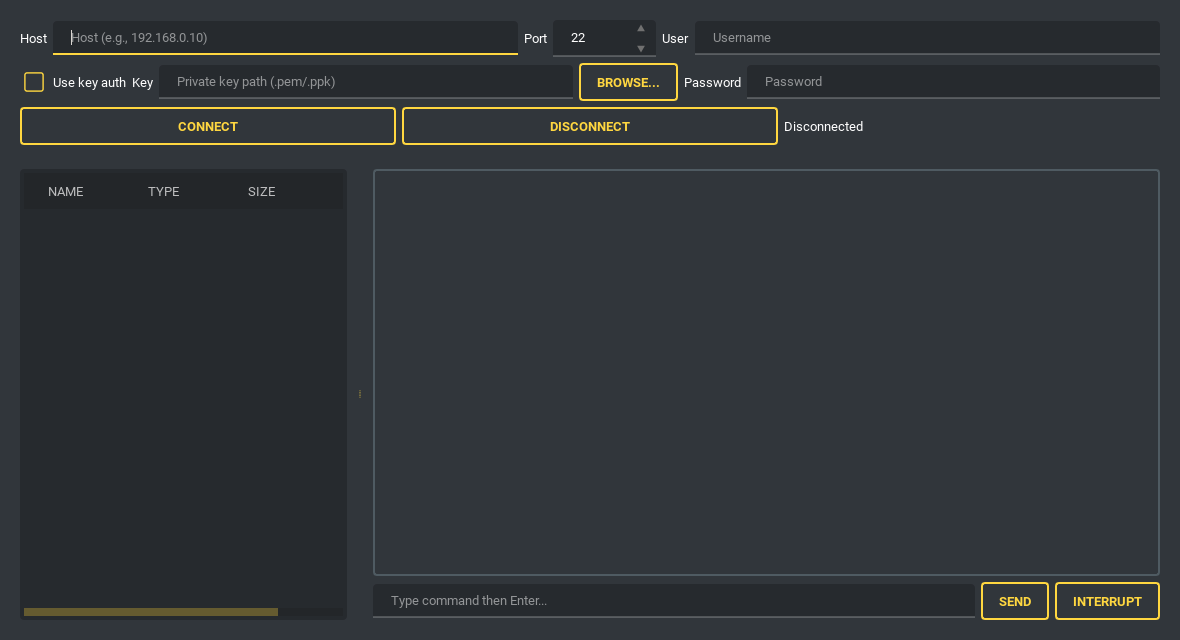
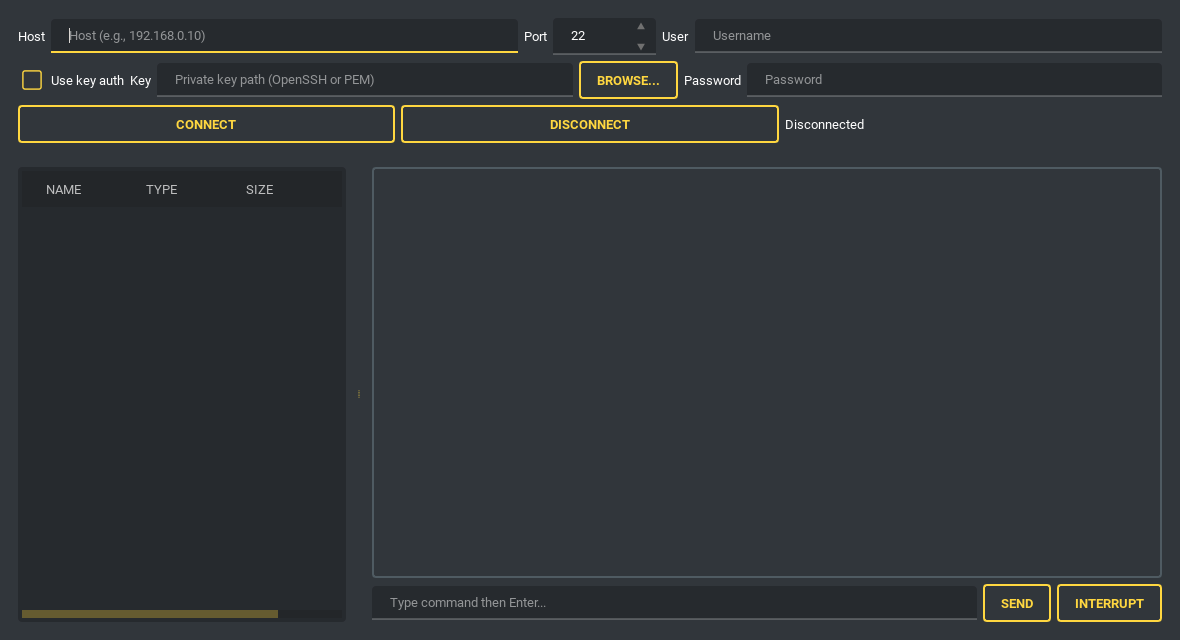
Tell the user to export a PuTTY key as OpenSSH

diff --git a/pybreeze/pybreeze_ui/connect_gui/ssh/ssh_key_loader.py b/pybreeze/pybreeze_ui/connect_gui/ssh/ssh_key_loader.py
@@ -27,6 +27,10 @@ _KEY_CLASSES: tuple[type[paramiko.PKey], ...] = (
 UNSUPPORTED_KEY = "ssh_command_widget_error_message_unsupported_private_key"
 PASSPHRASE_NEEDED = "ssh_key_error_passphrase_needed"
 PASSPHRASE_WRONG = "ssh_key_error_passphrase_wrong"
+PUTTY_KEY = "ssh_key_error_putty_key"
+
+# A PuTTY key file (.ppk), which neither paramiko nor cryptography reads
+_PUTTY_HEADER = b"PuTTY-User-Key-File-"
 
 # PKCS#8, which paramiko does not read (openssl genpkey, ssh-keygen -m PKCS8)
 _PKCS8_PLAIN = b"-----BEGIN PRIVATE KEY-----"
@@ -50,13 +54,13 @@ def load_private_key(key_path: str, password: str, *, context: str = "SSH") -> p
     return _load_pkcs8(key_path, passphrase, context)
 
 
-def _pkcs8_data(key_path: str) -> bytes | None:
-    """The contents of *key_path* if it is a PKCS#8 key file, else ``None``."""
+def _key_file_data(key_path: str, *headers: bytes) -> bytes | None:
+    """The contents of *key_path* if it starts with one of *headers*, else ``None``."""
     try:
         data = Path(key_path).read_bytes().lstrip()
     except OSError:
         return None
-    return data if data.startswith((_PKCS8_PLAIN, _PKCS8_ENCRYPTED)) else None
+    return data if data.startswith(headers) else None
 
 
 def _load_pkcs8(key_path: str, passphrase: str | None, context: str) -> paramiko.PKey | None:
@@ -66,7 +70,7 @@ def _load_pkcs8(key_path: str, passphrase: str | None, context: str) -> paramiko
     only, for paramiko to load. A passphrase is used only for an encrypted
     file: paramiko ignores one given for a plain key, and so does this.
     """
-    data = _pkcs8_data(key_path)
+    data = _key_file_data(key_path, _PKCS8_PLAIN, _PKCS8_ENCRYPTED)
     if data is None:
         return None
     password = passphrase.encode("utf-8") if passphrase and data.startswith(_PKCS8_ENCRYPTED) else None
@@ -96,10 +100,12 @@ def unloadable_key_reason(key_path: str, password: str) -> str:
     wrong only when it does not decrypt the file: an encrypted key of a type
     paramiko cannot load (DSA, a FIDO key) asks for one too, and with the
     right one it is still unsupported. An encrypted PKCS#8 file says so in
-    its first line, which paramiko does not read.
+    its first line, which paramiko does not read. A PuTTY key is to be
+    exported as an OpenSSH one.
     """
-    pkcs8 = _pkcs8_data(key_path)
-    if pkcs8 is not None and pkcs8.startswith(_PKCS8_ENCRYPTED):
+    if _key_file_data(key_path, _PUTTY_HEADER) is not None:
+        return PUTTY_KEY
+    if _key_file_data(key_path, _PKCS8_ENCRYPTED) is not None:
         if not password:
             return PASSPHRASE_NEEDED
         return UNSUPPORTED_KEY if _decrypts(key_path, password) else PASSPHRASE_WRONG

diff --git a/test/test_utils/test_ssh_security.py b/test/test_utils/test_ssh_security.py
@@ -125,7 +125,8 @@ class TestWhyAKeyDidNotLoad:
         )
         from pybreeze.pybreeze_ui.connect_gui.ssh import ssh_key_loader
 
-        for key in (ssh_key_loader.UNSUPPORTED_KEY, ssh_key_loader.PASSPHRASE_NEEDED, ssh_key_loader.PASSPHRASE_WRONG):
+        for key in (ssh_key_loader.UNSUPPORTED_KEY, ssh_key_loader.PASSPHRASE_NEEDED, ssh_key_loader.PASSPHRASE_WRONG,
+                    ssh_key_loader.PUTTY_KEY):
             assert english_word_dict.get(key) and traditional_chinese_word_dict.get(key)
 
 
@@ -187,6 +188,32 @@ class TestPkcs8Keys:
         typed = passphrase.decode() if passphrase else ""
         assert load_private_key(path, typed) is None
         assert unloadable_key_reason(path, typed) == UNSUPPORTED_KEY
+
+
+class TestPuttyKeys:
+    """paramiko reads no PuTTY key; the login form offered .ppk and then called it invalid."""
+
+    _PPK = ("PuTTY-User-Key-File-3: ssh-ed25519\nEncryption: none\nComment: laptop\n"
+            "Public-Lines: 1\nAAAAC3NzaC1lZDI1NTE5AAAAIA==\nPrivate-Lines: 1\nAAAAIA==\n"
+            "Private-MAC: 00\n")
+
+    @pytest.mark.parametrize("typed", ["", "a passphrase"])
+    def test_the_user_is_told_to_export_it_as_openssh(self, tmp_path, typed):
+        from pybreeze.pybreeze_ui.connect_gui.ssh.ssh_key_loader import PUTTY_KEY, unloadable_key_reason
+
+        path = tmp_path / "laptop.ppk"
+        path.write_text(self._PPK, encoding="ascii")
+        assert load_private_key(str(path), typed) is None
+        assert unloadable_key_reason(str(path), typed) == PUTTY_KEY
+
+    def test_the_login_form_does_not_offer_it(self):
+        from pybreeze.extend_multi_language.extend_english import pybreeze_english_word_dict
+        from pybreeze.extend_multi_language.extend_traditional_chinese import (
+            pybreeze_traditional_chinese_word_dict,
+        )
+
+        for words in (pybreeze_english_word_dict, pybreeze_traditional_chinese_word_dict):
+            assert ".ppk" not in words["ssh_login_widget_placeholder_private_key"]
 
 
 class TestSha1Algorithms:

diff --git a/pybreeze/extend_multi_language/extend_traditional_chinese.py b/pybreeze/extend_multi_language/extend_traditional_chinese.py
@@ -171,6 +171,8 @@ pybreeze_traditional_chinese_word_dict = {
     "ssh_command_widget_error_message_unsupported_private_key": "不支援或無效的私鑰。",
     "ssh_key_error_passphrase_needed": "這把私鑰有密語保護：請在密碼欄輸入密語。",
     "ssh_key_error_passphrase_wrong": "私鑰的密語不對。",
+    "ssh_key_error_putty_key": "這是 PuTTY 金鑰（.ppk），這裡無法使用：請在 PuTTYgen 載入它，"
+                               "選 Conversions > Export OpenSSH key 匯出，再選擇匯出的檔案。",
     "ssh_command_widget_error_message_key_auth_failed": "金鑰驗證失敗",
     "ssh_command_widget_status_label_connected": "已連線",
     "ssh_command_widget_status_label_disconnected": "已斷線",
@@ -263,7 +265,7 @@ pybreeze_traditional_chinese_word_dict = {
     "ssh_login_widget_placeholder_host": "主機（例如：192.168.0.10）",
     "ssh_login_widget_placeholder_username": "使用者名稱",
     "ssh_login_widget_placeholder_password": "密碼",
-    "ssh_login_widget_placeholder_private_key": "私鑰路徑（.pem/.ppk）",
+    "ssh_login_widget_placeholder_private_key": "私鑰路徑（OpenSSH 或 PEM）",
     "ssh_login_widget_button_use_key_auth": "使用金鑰驗證",
     "ssh_login_widget_button_connect": "連線",
     "ssh_login_widget_button_disconnect": "斷線",

diff --git a/pybreeze/extend_multi_language/extend_english.py b/pybreeze/extend_multi_language/extend_english.py
@@ -178,6 +178,8 @@ pybreeze_english_word_dict = {
     "ssh_command_widget_error_message_unsupported_private_key": "Unsupported or invalid private key.",
     "ssh_key_error_passphrase_needed": "The private key is protected by a passphrase: enter it in the password field.",
     "ssh_key_error_passphrase_wrong": "The passphrase for the private key is wrong.",
+    "ssh_key_error_putty_key": "This is a PuTTY key (.ppk), which cannot be used here: load it in PuTTYgen, "
+                               "choose Conversions > Export OpenSSH key, and pick the exported file.",
     "ssh_command_widget_error_message_key_auth_failed": "Key auth failed",
     "ssh_command_widget_status_label_connected": "Connected",
     "ssh_command_widget_status_label_disconnected": "Disconnected",
@@ -273,7 +275,7 @@ pybreeze_english_word_dict = {
     "ssh_login_widget_placeholder_host": "Host (e.g., 192.168.0.10)",
     "ssh_login_widget_placeholder_username": "Username",
     "ssh_login_widget_placeholder_password": "Password",
-    "ssh_login_widget_placeholder_private_key": "Private key path (.pem/.ppk)",
+    "ssh_login_widget_placeholder_private_key": "Private key path (OpenSSH or PEM)",
     "ssh_login_widget_button_use_key_auth": "Use key auth",
     "ssh_login_widget_button_connect": "Connect",
     "ssh_login_widget_button_disconnect": "Disconnect",

diff --git a/README.md b/README.md
@@ -149,7 +149,7 @@ A WYSIWYG `QGraphicsScene` editor: rectangle, rounded, ellipse and diamond nodes
 
 ![SSH client](images/ssh_client.png)
 
-Password or private-key authentication (the key file picked with Browse, starting in `~/.ssh`: an RSA, Ed25519 or ECDSA key in OpenSSH or PEM format, PKCS#8 included), an interactive shell with keepalive that shows ANSI colours, in a fixed-pitch font, whose width and height the shell is told as the view is resized (Up and Down bring back earlier commands, Enter on an empty line reaches the shell, `clear` and `reset` wipe the view, and **Interrupt**, or Ctrl+C in the command line with nothing selected, stops what runs in it; the view shows output line by line, so programs that draw on the whole screen by moving the cursor, such as `vim` or `htop`, come out garbled), and a lazy-loading SFTP tree with create-folder / rename / delete / upload / download. Every SFTP request runs in the background, so a stalled link never freezes the IDE. An upload asks before it replaces a file on the server, and a transfer can be cancelled from the tree's menu. Both directions write to a temporary file first, so a dropped link leaves the old copy whole. Unknown host keys are **not** auto-accepted: the SHA256 fingerprint is shown for confirmation on first connection (trust on first use) and persisted to `~/.pybreeze/ssh_known_hosts`.
+Password or private-key authentication (the key file picked with Browse, starting in `~/.ssh`: an RSA, Ed25519 or ECDSA key in OpenSSH or PEM format, PKCS#8 included; a PuTTY `.ppk` key is exported from PuTTYgen as an OpenSSH key first, as the error message says), an interactive shell with keepalive that shows ANSI colours, in a fixed-pitch font, whose width and height the shell is told as the view is resized (Up and Down bring back earlier commands, Enter on an empty line reaches the shell, `clear` and `reset` wipe the view, and **Interrupt**, or Ctrl+C in the command line with nothing selected, stops what runs in it; the view shows output line by line, so programs that draw on the whole screen by moving the cursor, such as `vim` or `htop`, come out garbled), and a lazy-loading SFTP tree with create-folder / rename / delete / upload / download. Every SFTP request runs in the background, so a stalled link never freezes the IDE. An upload asks before it replaces a file on the server, and a transfer can be cancelled from the tree's menu. Both directions write to a temporary file first, so a dropped link leaves the old copy whole. Unknown host keys are **not** auto-accepted: the SHA256 fingerprint is shown for confirmation on first connection (trust on first use) and persisted to `~/.pybreeze/ssh_known_hosts`.
 
 ### And also
 

diff --git a/README/README_zh-TW.md b/README/README_zh-TW.md
@@ -149,7 +149,7 @@ PyBreeze 開箱即用，涵蓋自動化測試的完整範疇：
 
 ![SSH 用戶端](../images/ssh_client.png)
 
-支援密碼或私鑰驗證（金鑰檔以 Browse 挑選，從 `~/.ssh` 開始：OpenSSH 或 PEM 格式的 RSA、Ed25519、ECDSA 金鑰，PKCS#8 也可以），具備 keepalive、會顯示 ANSI 顏色的互動式 shell，以等寬字型顯示，視窗大小改變時會把新的寬度與高度告訴 shell（上下方向鍵叫回先前送出的指令，空白的一行按 Enter 也會送到 shell，`clear` 與 `reset` 會清空畫面，**Interrupt**（中斷）按鈕、或在沒有選取文字的指令列按 Ctrl+C，可停止 shell 中正在執行的程式；畫面是一行一行顯示輸出，所以 `vim`、`htop` 這類移動游標畫滿整個畫面的程式會顯示錯亂），以及延遲載入的 SFTP 檔案樹，可建立資料夾／重新命名／刪除／上傳／下載。每個 SFTP 請求都在背景執行，連線卡住也不會讓 IDE 凍結。上傳時若要取代伺服器上的檔案會先詢問，傳輸也能從檔案樹的選單取消。上下傳都會先寫入暫存檔，所以連線中斷時舊的檔案仍完整無缺。未知的主機金鑰**不會**自動接受：第一次連線時會顯示 SHA256 指紋供確認（首次使用即信任），並保存到 `~/.pybreeze/ssh_known_hosts`。
+支援密碼或私鑰驗證（金鑰檔以 Browse 挑選，從 `~/.ssh` 開始：OpenSSH 或 PEM 格式的 RSA、Ed25519、ECDSA 金鑰，PKCS#8 也可以；PuTTY 的 `.ppk` 金鑰要先在 PuTTYgen 匯出成 OpenSSH 金鑰，錯誤訊息會說明怎麼做），具備 keepalive、會顯示 ANSI 顏色的互動式 shell，以等寬字型顯示，視窗大小改變時會把新的寬度與高度告訴 shell（上下方向鍵叫回先前送出的指令，空白的一行按 Enter 也會送到 shell，`clear` 與 `reset` 會清空畫面，**Interrupt**（中斷）按鈕、或在沒有選取文字的指令列按 Ctrl+C，可停止 shell 中正在執行的程式；畫面是一行一行顯示輸出，所以 `vim`、`htop` 這類移動游標畫滿整個畫面的程式會顯示錯亂），以及延遲載入的 SFTP 檔案樹，可建立資料夾／重新命名／刪除／上傳／下載。每個 SFTP 請求都在背景執行，連線卡住也不會讓 IDE 凍結。上傳時若要取代伺服器上的檔案會先詢問，傳輸也能從檔案樹的選單取消。上下傳都會先寫入暫存檔，所以連線中斷時舊的檔案仍完整無缺。未知的主機金鑰**不會**自動接受：第一次連線時會顯示 SHA256 指紋供確認（首次使用即信任），並保存到 `~/.pybreeze/ssh_known_hosts`。
 
 ### 其他
 

diff --git a/README/README_zh-CN.md b/README/README_zh-CN.md
@@ -149,7 +149,7 @@ PyBreeze 开箱即用，涵盖自动化测试的完整范围：
 
 ![SSH 客户端](../images/ssh_client.png)
 
-支持密码或私钥认证（用 Browse 选择密钥文件，从 `~/.ssh` 开始：OpenSSH 或 PEM 格式的 RSA、Ed25519、ECDSA 密钥，PKCS#8 也可以），带 keepalive、会显示 ANSI 颜色的交互式 shell，以等宽字体显示，窗口大小改变时会把新的宽度和高度告诉 shell（上下方向键调出之前发送的命令，空行按 Enter 也会发送到 shell，`clear` 与 `reset` 会清空画面，**Interrupt** 按钮、或在未选中文字的命令行中按 Ctrl+C，可停止 shell 中正在运行的程序；界面逐行显示输出，所以 `vim`、`htop` 这类移动光标绘制整个屏幕的程序会显示错乱），以及按需加载的 SFTP 文件树，支持创建文件夹／重命名／删除／上传／下载。每个 SFTP 请求都在后台运行，因此连接卡住时也不会冻结 IDE。上传前若会覆盖服务器上的文件会先询问，传输也可以从文件树的菜单中取消。两个方向都先写入临时文件，因此连接中断时，旧的副本仍完整保留。未知的主机密钥**不会**被自动接受：首次连接时会显示 SHA256 指纹请你确认（首次使用即信任），并保存到 `~/.pybreeze/ssh_known_hosts`。
+支持密码或私钥认证（用 Browse 选择密钥文件，从 `~/.ssh` 开始：OpenSSH 或 PEM 格式的 RSA、Ed25519、ECDSA 密钥，PKCS#8 也可以；PuTTY 的 `.ppk` 密钥需先在 PuTTYgen 导出为 OpenSSH 密钥，错误信息会说明如何操作），带 keepalive、会显示 ANSI 颜色的交互式 shell，以等宽字体显示，窗口大小改变时会把新的宽度和高度告诉 shell（上下方向键调出之前发送的命令，空行按 Enter 也会发送到 shell，`clear` 与 `reset` 会清空画面，**Interrupt** 按钮、或在未选中文字的命令行中按 Ctrl+C，可停止 shell 中正在运行的程序；界面逐行显示输出，所以 `vim`、`htop` 这类移动光标绘制整个屏幕的程序会显示错乱），以及按需加载的 SFTP 文件树，支持创建文件夹／重命名／删除／上传／下载。每个 SFTP 请求都在后台运行，因此连接卡住时也不会冻结 IDE。上传前若会覆盖服务器上的文件会先询问，传输也可以从文件树的菜单中取消。两个方向都先写入临时文件，因此连接中断时，旧的副本仍完整保留。未知的主机密钥**不会**被自动接受：首次连接时会显示 SHA256 指纹请你确认（首次使用即信任），并保存到 `~/.pybreeze/ssh_known_hosts`。
 
 ### 其他
 

diff --git a/docs/updates/2026-09-c.md b/docs/updates/2026-09-c.md
@@ -66,3 +66,13 @@ Continues [2026-09-b.md](2026-09-b.md), which passed the batch size limit. Index
 - **Files**: `pybreeze/pybreeze_ui/connect_gui/ssh/ssh_key_loader.py`, `test/test_utils/test_ssh_security.py`, `README.md`, `README/README_zh-TW.md`, `README/README_zh-CN.md`, `architecture_explore.md`
 - **Evidence**: [paramiko issue #1015](https://github.com/paramiko/paramiko/issues/1015) (PKCS#8 support, open).
 - **Open items**: none.
+
+## U-20260925-08 · 2026-09-25 · Say what to do with a PuTTY key instead of offering it · #fix #ssh #i18n #readme
+
+- **What**: the SSH login form's key field read "Private key path (.pem/.ppk)", but neither paramiko nor cryptography reads a PuTTY `.ppk` key: one chosen there was refused as "Unsupported or invalid private key.", with nothing about converting it.
+- **Fix**: `unloadable_key_reason` (`connect_gui/ssh/ssh_key_loader.py`) recognises a file starting `PuTTY-User-Key-File-` and gives `PUTTY_KEY` (`ssh_key_error_putty_key`): load it in PuTTYgen, Conversions > Export OpenSSH key, and pick the exported file (Traditional Chinese: 請在 PuTTYgen 載入它，選 Conversions > Export OpenSSH key 匯出…). The placeholder reads "Private key path (OpenSSH or PEM)" (私鑰路徑（OpenSSH 或 PEM）). The file-header check shared with the PKCS#8 path of U-20260925-07 is `_key_file_data`.
+- **Tests**: new `TestPuttyKeys` in `test_ssh_security.py` (3): a `.ppk` file, with or without a passphrase typed, does not load and is reported as a PuTTY key; neither language's placeholder offers `.ppk`. `test_each_reason_has_a_message` covers the new reason. All four failed before the change. With the language parity and keys-used tests and the login form tests, 50 pass.
+- **Result / numbers**: 2444 tests in 135 files. `ruff check` clean. The full suite at `d5c266a` passed (2416 passed, 15 skipped).
+- **Docs**: the SSH Client paragraph of the three READMEs says a `.ppk` key is exported as OpenSSH first; `images/ssh_client.png` redone at its 1180×640 under dark_amber with the new placeholder; `architecture_explore.md` (`ssh_key_loader.py`, test count).
+- **Files**: `pybreeze/pybreeze_ui/connect_gui/ssh/ssh_key_loader.py`, `pybreeze/extend_multi_language/extend_english.py`, `pybreeze/extend_multi_language/extend_traditional_chinese.py`, `test/test_utils/test_ssh_security.py`, `README.md`, `README/README_zh-TW.md`, `README/README_zh-CN.md`, `images/ssh_client.png`, `architecture_explore.md`
+- **Open items**: none.

diff --git a/docs/updates/README.md b/docs/updates/README.md
@@ -58,6 +58,7 @@ In the same commit: delete the item from `progress.md`, add a `#done` entry here
 
 | ID | Date | Title | Tags | Batch |
 |---|---|---|---|---|
+| U-20260925-08 | 2026-09-25 | Say what to do with a PuTTY key instead of offering it | #fix #ssh #i18n #readme | [2026-09-c](2026-09-c.md) |
 | U-20260925-07 | 2026-09-25 | SSH and SFTP log in with a PKCS#8 private key | #feature #ssh | [2026-09-c](2026-09-c.md) |
 | U-20260925-06 | 2026-09-25 | The Mermaid paste box in the fixed-pitch font | #fix #diagram #ui | [2026-09-c](2026-09-c.md) |
 | U-20260925-05 | 2026-09-25 | Free the diagram editor's Mermaid import dialog | #fix #diagram | [2026-09-c](2026-09-c.md) |
@@ -410,4 +411,4 @@ In the same commit: delete the item from `progress.md`, add a `#done` entry here
 |---|---|---:|
 | [2026-09.md](2026-09.md) | 2026-09 | 218 |
 | [2026-09-b.md](2026-09-b.md) | 2026-09 | 120 |
-| [2026-09-c.md](2026-09-c.md) | 2026-09 | 7 |
+| [2026-09-c.md](2026-09-c.md) | 2026-09 | 8 |
